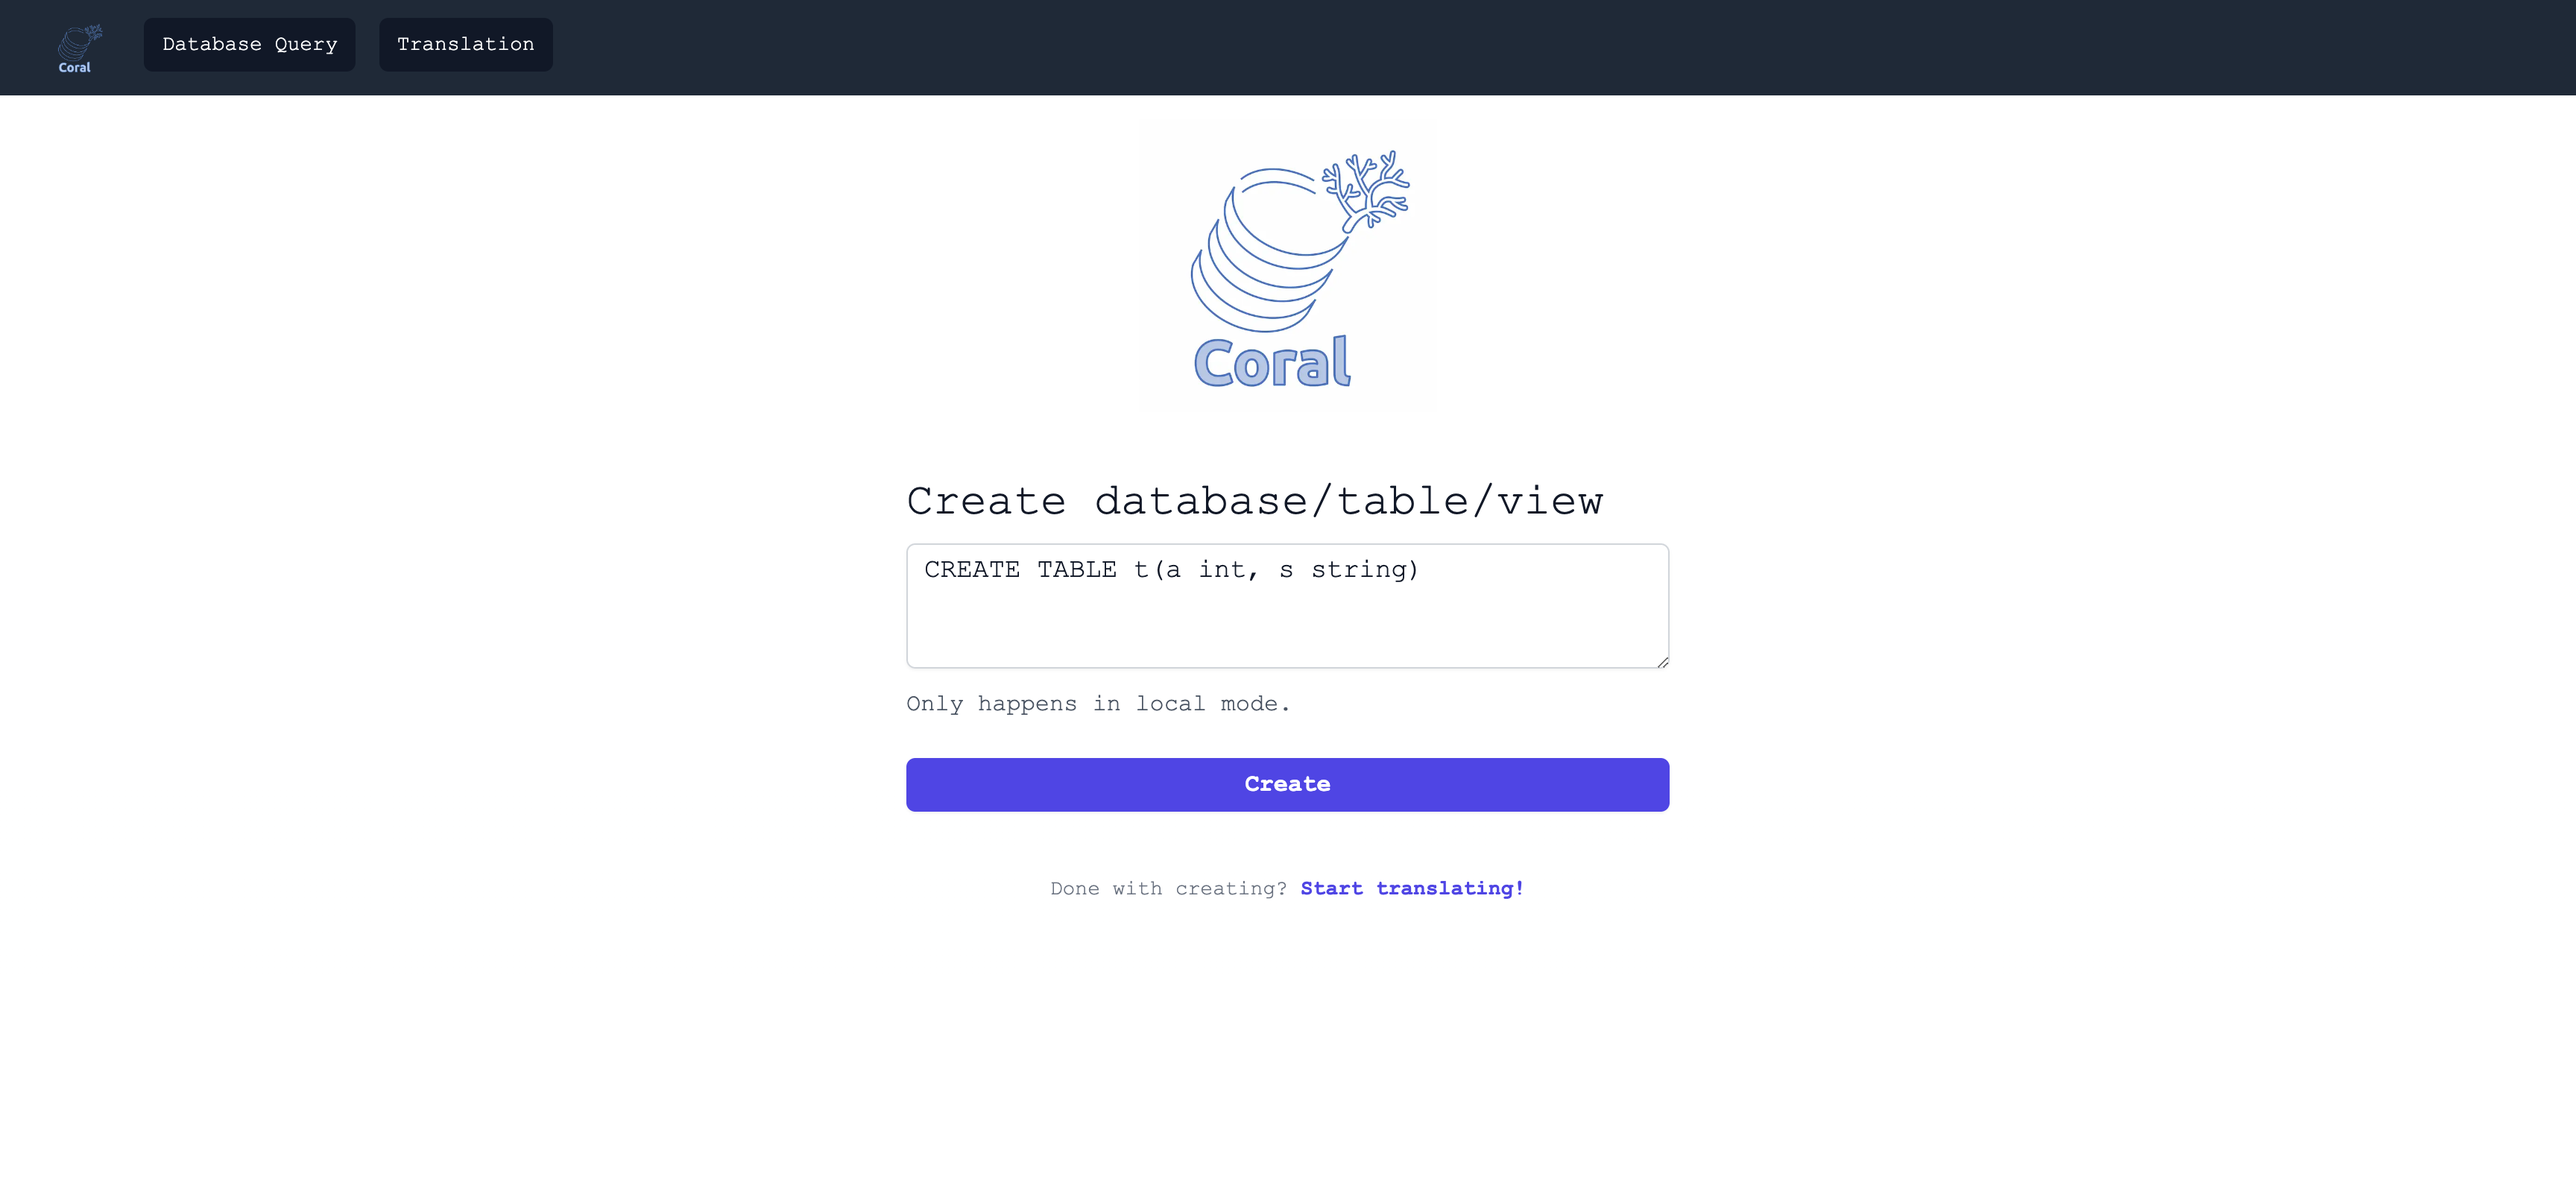
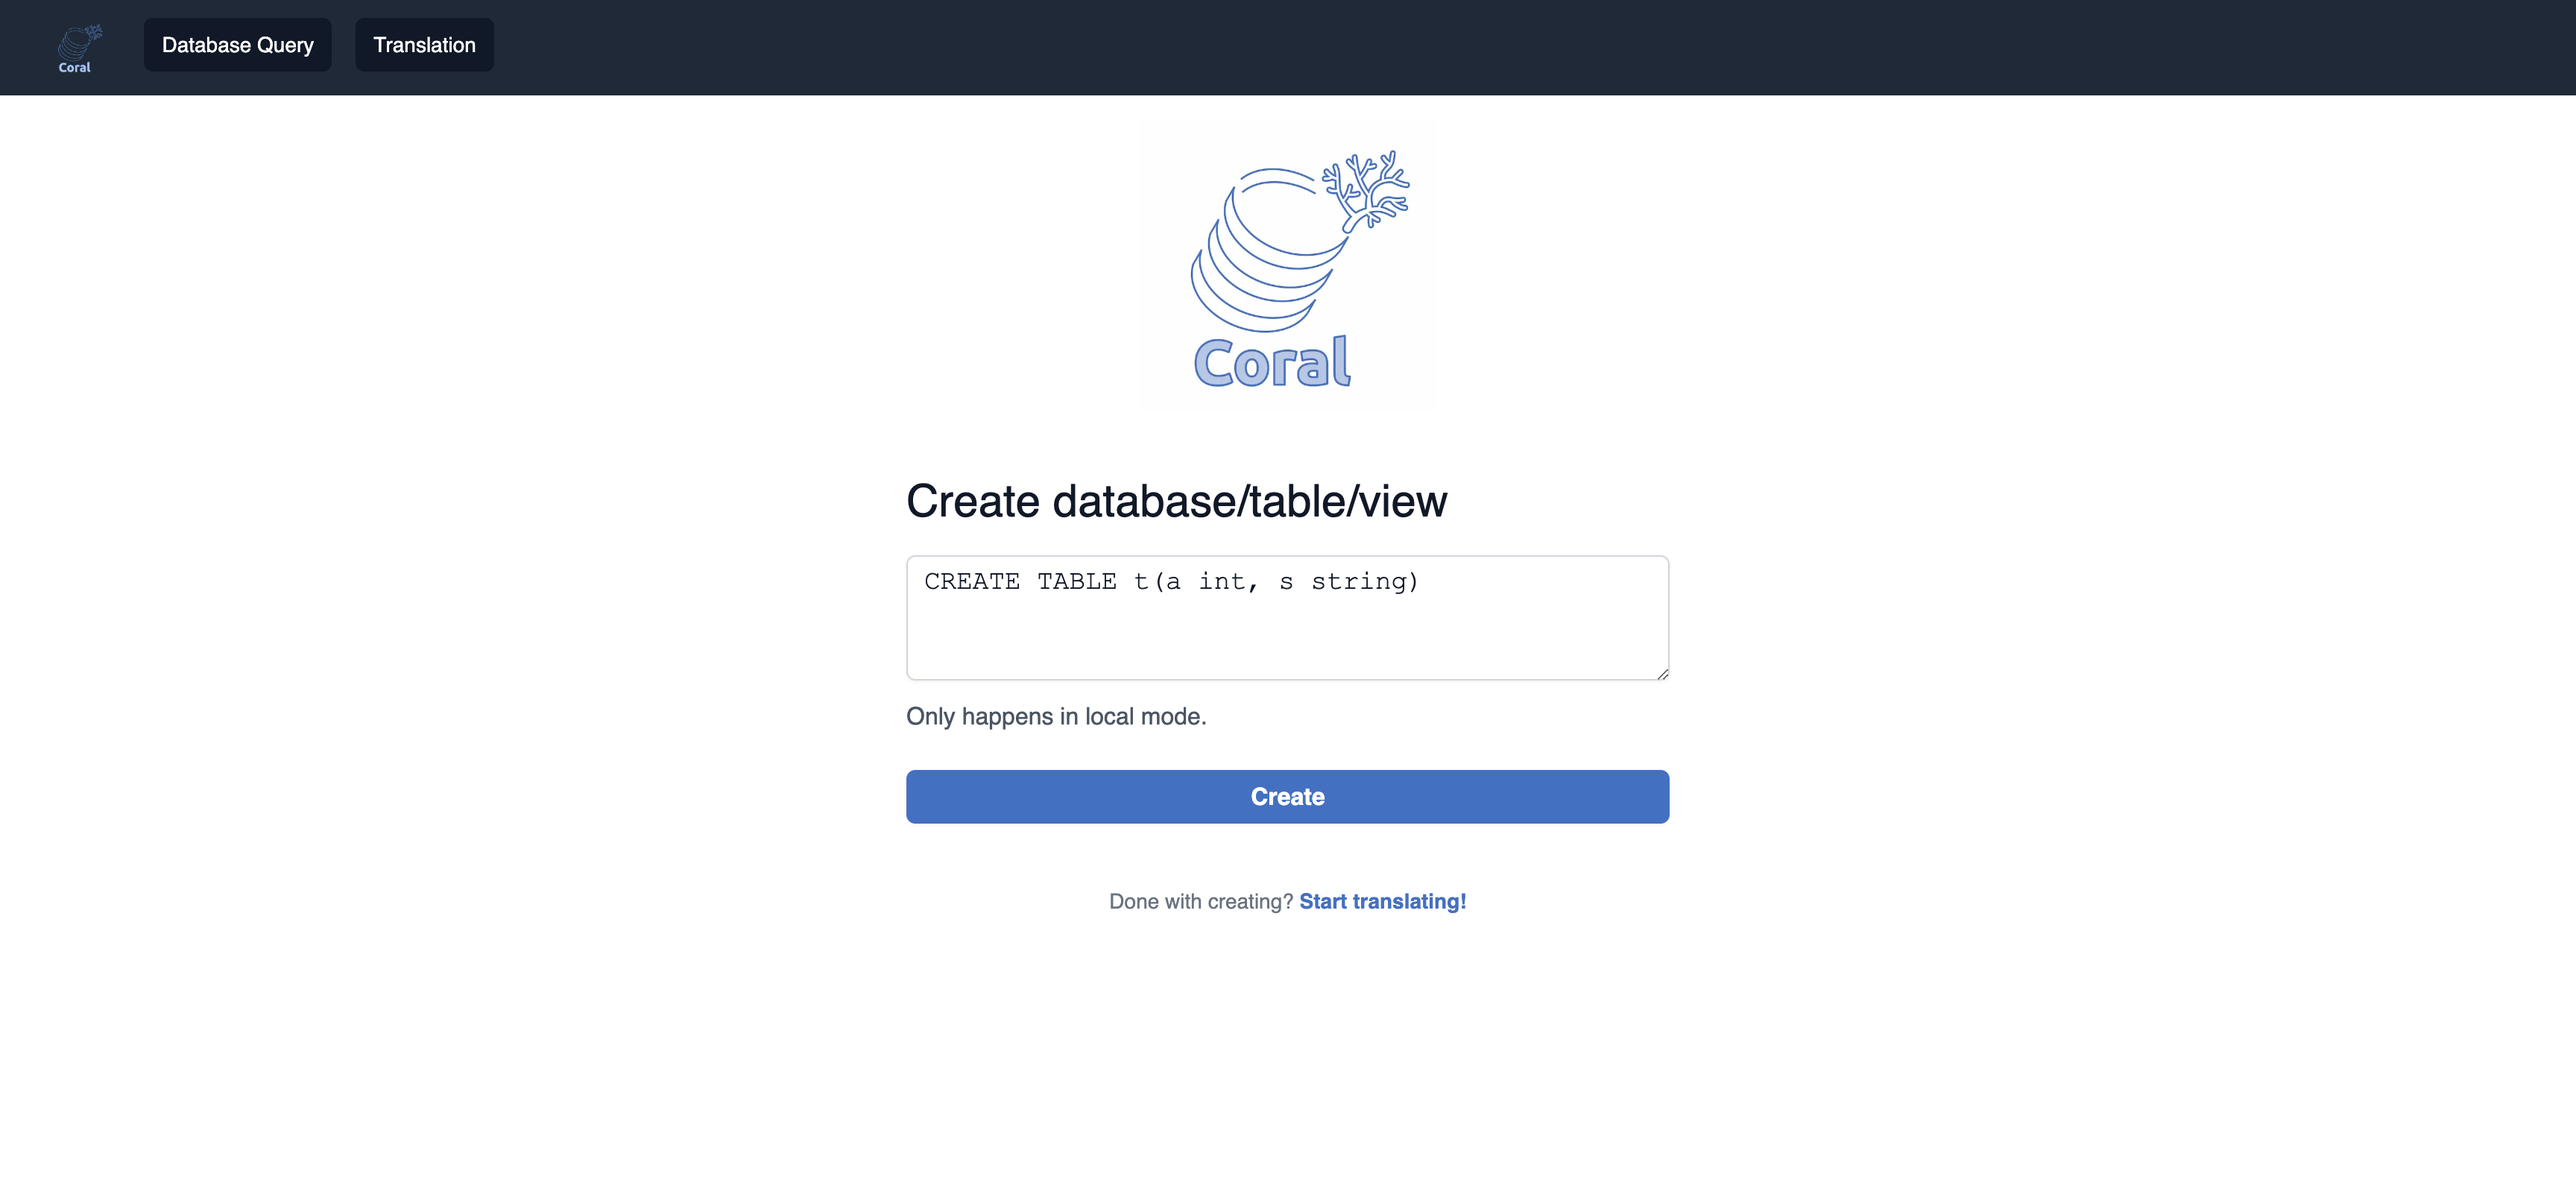
[Coral-Service] Coral UI improvements (#461)

diff --git a/coral-service/frontend/src/app/components/Forms/TranslationForm.js b/coral-service/frontend/src/app/components/Forms/TranslationForm.js
@@ -96,7 +96,7 @@ export default function TranslationForm({
                   id='query'
                   name='query'
                   rows='3'
-                  className='block w-full rounded-md border-0 py-1.5 text-gray-900 shadow-sm ring-1 ring-inset ring-gray-300 placeholder:text-gray-400 focus:ring-2 focus:ring-inset focus:ring-indigo-600 sm:text-md sm:leading-6'
+                  className='block w-full rounded-md border-0 py-1.5 text-gray-900 shadow-sm ring-1 ring-inset ring-gray-300 placeholder:text-gray-400 focus:ring-2 focus:ring-inset focus:ring-coral-blue sm:text-md sm:leading-6 font-courier'
                   placeholder='SELECT * FROM db.tbl'
                   required
                 ></textarea>
@@ -107,7 +107,7 @@ export default function TranslationForm({
               <select
                 id='sourceLanguage'
                 name='sourceLanguage'
-                className='mx-6 block w-full rounded-md border-0 py-1.5 text-gray-900 shadow-sm ring-1 ring-inset ring-gray-300 focus:ring-2 focus:ring-inset focus:ring-indigo-600 sm:max-w-xs sm:text-md sm:leading-6'
+                className='mx-6 block w-full rounded-md border-0 py-1.5 text-gray-900 shadow-sm ring-1 ring-inset ring-gray-300 focus:ring-2 focus:ring-inset focus:ring-coral-blue sm:max-w-xs sm:text-md sm:leading-6'
               >
                 <option value='hive'>Hive</option>
                 <option value='trino'>Trino</option>
@@ -117,7 +117,7 @@ export default function TranslationForm({
               <select
                 id='targetLanguage'
                 name='targetLanguage'
-                className='mx-6 block w-full rounded-md border-0 py-1.5 text-gray-900 shadow-sm ring-1 ring-inset ring-gray-300 focus:ring-2 focus:ring-inset focus:ring-indigo-600 sm:max-w-xs sm:text-md sm:leading-6'
+                className='ml-6 block w-full rounded-md border-0 py-1.5 text-gray-900 shadow-sm ring-1 ring-inset ring-gray-300 focus:ring-2 focus:ring-inset focus:ring-coral-blue sm:max-w-xs sm:text-md sm:leading-6'
               >
                 <option value='trino'>Trino</option>
                 <option value='spark'>Spark</option>
@@ -149,7 +149,7 @@ export default function TranslationForm({
                 <select
                   id='rewriteType'
                   name='rewriteType'
-                  className='block w-full rounded-md border-0 py-1.5 text-gray-900 shadow-sm ring-1 ring-inset ring-gray-300 focus:ring-2 focus:ring-inset focus:ring-indigo-600 sm:max-w-xs sm:text-md sm:leading-6'
+                  className='block w-full rounded-md border-0 py-1.5 text-gray-900 shadow-sm ring-1 ring-inset ring-gray-300 focus:ring-2 focus:ring-inset focus:ring-coral-blue sm:w-1/2 sm:max-w-xs sm:text-md sm:leading-6'
                 >
                   <option value='none'>None</option>
                   <option value='incremental'>Incremental</option>
@@ -163,7 +163,7 @@ export default function TranslationForm({
               ) : (
                 <button
                   type='submit'
-                  className='flex w-full justify-center rounded-md bg-indigo-600  px-4 py-2 text-md font-semibold leading-6 text-white shadow-sm hover:bg-indigo-500 focus-visible:outline focus-visible:outline-2 focus-visible:outline-offset-2 focus-visible:outline-indigo-600'
+                  className='flex w-full justify-center rounded-md px-4 py-2 text-md font-semibold leading-6 text-white shadow-sm bg-coral-blue hover:bg-coral-blue-lighter focus-visible:outline focus-visible:outline-2 focus-visible:outline-offset-2 focus-visible:outline-coral-blue'
                 >
                   Translate
                 </button>

diff --git a/coral-service/frontend/src/app/components/Cards/GraphCard.js b/coral-service/frontend/src/app/components/Cards/GraphCard.js
@@ -1,12 +1,14 @@
 import React from 'react';
+import Zoom from 'react-medium-image-zoom';
+import 'react-medium-image-zoom/dist/styles.css';
 const baseUrl = process.env.NEXT_PUBLIC_CORAL_SERVICE_API_URL;
 
 export default function GraphCard(props) {
   const { imageIDs, imageFetchError } = props;
 
   return (
-    <div className='bg-white p-6 rounded-lg shadow-lg w-1/2 mx-auto my-10 overflow-auto '>
-      <h2 className='text-2xl font-bold mb-6 text-gray-800'>
+    <div className='bg-white p-6 border-2 rounded-3xl w-8/12 mx-auto my-10 overflow-auto sm:w-10/12'>
+      <h2 className='text-xl font-bold mb-6 text-gray-800'>
         Intermediate Representation Graphs
       </h2>
       {imageFetchError ? (
@@ -18,20 +20,26 @@ export default function GraphCard(props) {
               <h4 className='text-lg font-medium mb-6 text-gray-800'>
                 Sql Node
               </h4>
-              <img
-                src={`${baseUrl}/api/visualizations/${imageIDs.sqlNodeImageID}`}
-                alt='SQL Node Image'
-              />
+              <Zoom>
+                <img
+                  src={`${baseUrl}/api/visualizations/${imageIDs.sqlNodeImageID}`}
+                  alt='SQL Node Image'
+                  className='on-hover-opaque'
+                />
+              </Zoom>
             </div>
 
             <div className='border-2 rounded-md	p-2'>
               <h4 className='text-lg font-medium mb-6 text-gray-800'>
                 Rel Node
               </h4>
-              <img
-                src={`${baseUrl}/api/visualizations/${imageIDs.relNodeImageID}`}
-                alt='Rel Node Image'
-              />
+              <Zoom>
+                <img
+                  src={`${baseUrl}/api/visualizations/${imageIDs.relNodeImageID}`}
+                  alt='Rel Node Image'
+                  className='on-hover-opaque'
+                />
+              </Zoom>
             </div>
 
             {imageIDs.postRewriteSqlNodeImageID && (
@@ -39,10 +47,13 @@ export default function GraphCard(props) {
                 <h4 className='text-lg font-medium mb-6 text-gray-800'>
                   Post-Rewrite SQL Node
                 </h4>
-                <img
-                  src={`${baseUrl}/api/visualizations/${imageIDs.postRewriteSqlNodeImageID}`}
-                  alt='Post Rewrite SQL Node Image'
-                />
+                <Zoom>
+                  <img
+                    src={`${baseUrl}/api/visualizations/${imageIDs.postRewriteSqlNodeImageID}`}
+                    alt='Post Rewrite SQL Node Image'
+                    className='on-hover-opaque'
+                  />
+                </Zoom>
               </div>
             )}
 
@@ -51,10 +62,13 @@ export default function GraphCard(props) {
                 <h4 className='text-lg font-medium mb-6 text-gray-800'>
                   Post-Rewrite Rel Node
                 </h4>
-                <img
-                  src={`${baseUrl}/api/visualizations/${imageIDs.postRewriteRelNodeImageID}`}
-                  alt='Post Rewrite Rel Node Image'
-                />
+                <Zoom>
+                  <img
+                    src={`${baseUrl}/api/visualizations/${imageIDs.postRewriteRelNodeImageID}`}
+                    alt='Post Rewrite Rel Node Image'
+                    className='on-hover-opaque'
+                  />
+                </Zoom>
               </div>
             )}
           </div>

diff --git a/coral-service/frontend/src/app/components/Forms/DBQueryForm.js b/coral-service/frontend/src/app/components/Forms/DBQueryForm.js
@@ -44,7 +44,7 @@ export default function DBQueryForm() {
             onSubmit={onSubmit}
           >
             <div className='col-span-full'>
-              <label className='block text-3xl font-medium leading-6 text-gray-900 mb-4'>
+              <label className='block text-3xl font-medium leading-6 text-gray-900 mb-6'>
                 Create database/table/view
               </label>
               <div className='mt-2'>
@@ -52,7 +52,7 @@ export default function DBQueryForm() {
                   id='statement'
                   name='statement'
                   rows='3'
-                  className='block w-full rounded-md border-0 py-1.5 text-gray-900 shadow-sm ring-1 ring-inset ring-gray-300 placeholder:text-gray-400 focus:ring-2 focus:ring-inset focus:ring-indigo-600 sm:text-lg sm:leading-6'
+                  className='block w-full rounded-md border-0 py-1.5 text-gray-900 shadow-sm ring-1 ring-inset ring-gray-300 placeholder:text-gray-400 focus:ring-2 focus:ring-inset focus:ring-coral-blue sm:text-lg sm:leading-6 font-courier'
                   placeholder='CREATE DATABASE/TABLE/VIEW'
                   value={statement}
                   onChange={(e) => setStatement(e.target.value)}
@@ -67,7 +67,7 @@ export default function DBQueryForm() {
             <div>
               <button
                 type='submit'
-                className='flex w-full justify-center rounded-md bg-indigo-600 px-3 py-1.5 text-md font-semibold leading-6 text-white shadow-sm hover:bg-indigo-500 focus-visible:outline focus-visible:outline-2 focus-visible:outline-offset-2 focus-visible:outline-indigo-600'
+                className='flex w-full justify-center rounded-md px-3 py-1.5 text-md font-semibold leading-6 text-white shadow-sm bg-coral-blue hover:bg-coral-blue-lighter focus-visible:outline focus-visible:outline-2 focus-visible:outline-offset-2 focus-visible:outline-coral-blue'
               >
                 Create
               </button>
@@ -78,7 +78,7 @@ export default function DBQueryForm() {
             Done with creating?{' '}
             <a
               href='/translation'
-              className='font-semibold leading-6 text-indigo-600 hover:text-indigo-500'
+              className='font-semibold leading-6 text-coral-blue hover:text-coral-blue-lighter'
             >
               Start translating!
             </a>

diff --git a/coral-service/frontend/src/app/components/Cards/ResultCard.js b/coral-service/frontend/src/app/components/Cards/ResultCard.js
@@ -3,10 +3,39 @@ import React from 'react';
 export default function ResultCard(props) {
   const { translation } = props;
 
+  {/*// TODO: Change translation endpoint to respond with original query and translated query in 2 different fields*/}
+  const TextWithLineBreaks = ({ text }) => {
+
+    if (!text.startsWith("Original query in")) {
+      return <div className='font-courier'>{text}</div>;;
+    }
+
+    const parts = text.split(':');
+
+    const formattedText = parts.map((part, index) => (
+      <span key={index}>
+        {
+          part.split('Translated to').length === 2 ? (
+              <>
+                {part.split('Translated to')[0]}
+                <br />
+                Translated to
+                {part.split('Translated to')[1]}
+              </>
+          ) : part
+        }
+        {index < parts.length - 1 && ':'}
+        <br />
+      </span>
+    ));
+
+    return <div className='font-courier'>{formattedText}</div>;
+  };
+
   return (
-    <div className='bg-white p-6 rounded-lg shadow-lg w-1/2 mx-auto my-3 overflow-auto '>
-      <h2 className='text-2xl font-bold mb-2 text-gray-800'>Results</h2>
-      {translation}
+    <div className='bg-white p-6 border-2 rounded-3xl w-8/12 mx-auto my-3 overflow-auto sm:w-10/12'>
+      <h2 className='text-xl font-bold mb-2 text-gray-800'>Results</h2>
+      <TextWithLineBreaks text={translation} />
     </div>
   );
 }

diff --git a/coral-service/frontend/src/app/components/Buttons/LoadingButton.js b/coral-service/frontend/src/app/components/Buttons/LoadingButton.js
@@ -6,7 +6,7 @@ export default function LoadingButton(props) {
   return (
     <button
       type='button'
-      className='flex w-full justify-center px-4 py-2 border border-transparent text-base leading-6 font-medium rounded-md text-white bg-purple-600 hover:bg-rose-500 focus:border-rose-700 active:bg-rose-700 transition ease-in-out duration-150 cursor-not-allowed'
+      className='flex w-full justify-center px-4 py-2 border border-transparent text-base leading-6 font-medium rounded-md text-white bg-coral-blue hover:bg-rose-500 focus:border-rose-700 active:bg-rose-700 transition ease-in-out duration-150 cursor-not-allowed'
       disabled=''
     >
       <svg

diff --git a/coral-service/frontend/tailwind.config.js b/coral-service/frontend/tailwind.config.js
@@ -7,14 +7,13 @@ module.exports = {
   ],
   theme: {
     extend: {
-      backgroundImage: {
-        'gradient-radial': 'radial-gradient(var(--tw-gradient-stops))',
-        'gradient-conic':
-          'conic-gradient(from 180deg at 50% 50%, var(--tw-gradient-stops))',
-      },
       fontFamily: {
-        // Add Courier New to the list of fonts
+        sans: ['"DM Sans"', 'sans-serif'],
         courier: ['Courier New', 'monospace'],
+      },
+      colors: {
+        'coral-blue': '#4470c1',
+        'coral-blue-lighter': '#6e83c9',
       },
     },
   },

diff --git a/coral-service/frontend/src/app/globals.css b/coral-service/frontend/src/app/globals.css
@@ -1,6 +1,7 @@
 @tailwind base;
 @tailwind components;
 @tailwind utilities;
+@import url('https://fonts.googleapis.com/css2?family=DM+Sans:opsz,wght@9..40,100;9..40,400&display=swap');
 
 :root {
   --foreground-rgb: 0, 0, 0;
@@ -24,4 +25,14 @@ body {
       rgb(var(--background-end-rgb))
     )
     rgb(var(--background-start-rgb));
+}
+
+.on-hover-opaque {
+  transition-property: opacity;
+  transition-duration: 300ms;
+  transition-timing-function: ease-in-out;
+}
+
+.on-hover-opaque:hover {
+  opacity: 0.5;
 }

diff --git a/coral-service/frontend/src/app/layout.js b/coral-service/frontend/src/app/layout.js
@@ -12,9 +12,7 @@ export const metadata = {
 export default function RootLayout({ children }) {
   return (
     <html lang='en' className='h-max bg-white'>
-      <body className={`h-max ${inter.className} font-courier`}>
-        {children}
-      </body>
+      <body className={`h-max ${inter.className} font-sans`}>{children}</body>
     </html>
   );
 }
